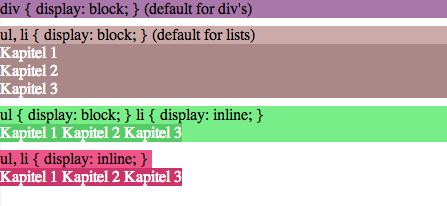
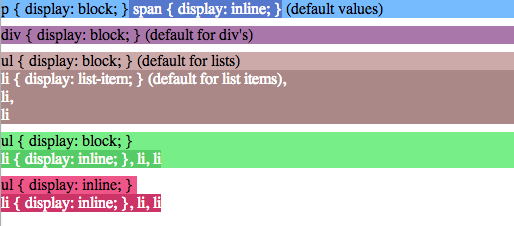
Completed slides with examples and illustrations.

diff --git a/html-css-course/slides.html b/html-css-course/slides.html
@@ -38,6 +38,8 @@
         <div class="slides">
             <section>
                 <h1>HTML and CSS</h1>
+                <p><a href="https://github.com/jayway/team-web-course" alt="">Kursmaterial på Github</a></p>
+                <p>Labbar - antingen lokalt eller på <a href="http://jsfiddle.net" alt="">jsfiddle.net</a></p>
             </section>
             
             <section>
@@ -67,6 +69,7 @@
                     <li>spans</li>
                     <li>images</li>
                     <li>links</li>
+                    <li>forms</li>
                 </ul>
             </section>
             
@@ -155,6 +158,22 @@ Just some free flying text separated by some line breaks</code></pre>
                 <p>And here are two ways of linking to the anchor.</p>
                 <pre><code>&lt;a href=&quot;#detailed-info&quot;&gt;Click to read more&lt;/a&gt;</code></pre>
                 <pre><code>&lt;a href=&quot;http://www.jayway.com/page-with-anchors.html#detailed-info&quot;&gt;Click to read more on jayway.com&lt;/a&gt;</code></pre>
+            </section>
+            
+            <section>
+              <h1>Forms</h1>
+              <p>Forms are used in HTML to group and capture user input and possibly submitting this data to some resource / destination for processing.</p>
+              <div class="side-by-side"><pre><code>&lt;form&gt;...
+&lt;label for=&quot;pwd&quot;&gt;Password:&lt;/label&gt;
+&lt;input type=&quot;password&quot; id=&quot;pwd&quot;&gt;
+&lt;label for=&quot;sex&quot;&gt;Sex:&lt;/label&gt;
+&lt;select&gt;
+&lt;option&gt;Male&lt;/option&gt;
+&lt;option&gt;Female&lt;/option&gt;
+&lt;/select&gt;
+&lt;input type=&quot;submit&quot;&gt;
+&lt;/form&gt;</code></pre></div>
+              <div class="side-by-side"><img src="resources/html-form.png"></div>
             </section>
             
             <section>
@@ -538,10 +557,10 @@ Your browser does not support the video tag.
             </section>
             
             <section>
-                <h1>Basic Styling</h1>
+                <h1>Styling</h1>
                 <p>Selectors define the rule for what element(s) in your HTML document you want to target for styling.</p>
                 <p>There are different kinds of selectors. You can select by:</p> 
-                <p>id, type, class, universal, descendant, child, adjecent sibling, pseudo elements and pseudo classes.</p>
+                <p><strong>id, type, class, universal, descendant, child, adjecent sibling, pseudo elements and pseudo classes.</strong></p>
                 <p>You can also group your selectors.</p>
             </section>
             
@@ -581,11 +600,18 @@ div &gt; p:first-child { text-indent: 0 }</code></pre>
             </section>
             
             <section>
-                <h1>Chained Selectors</h1>
+                <h1>visited Selectors</h1>
                 <p></p>
                 <pre><code>#header .menu-item { text-transform: uppercase; }</code></pre>
-                <p>This selector targets all menu items in the list below.</p>
+                <p>This selector targets all menu items in the header list below but not those in the footer list.</p>
                 <pre><code>&lt;div id=&quot;header&quot;&gt;
+    &lt;ul&gt;
+        &lt;li class=&quot;menu-item&quot;&gt;Item 1&lt;/li&gt;
+        &lt;li class=&quot;menu-item&quot;&gt;Item 2&lt;/li&gt;
+        &lt;li class=&quot;menu-item&quot;&gt;Item 3&lt;/li&gt;
+    &lt;/ul&gt;
+&lt;/div&gt;
+&lt;div id=&quot;footer&quot;&gt;
     &lt;ul&gt;
         &lt;li class=&quot;menu-item&quot;&gt;Item 1&lt;/li&gt;
         &lt;li class=&quot;menu-item&quot;&gt;Item 2&lt;/li&gt;
@@ -598,8 +624,10 @@ div &gt; p:first-child { text-indent: 0 }</code></pre>
                 <h1>Stacked Selectors</h1>
                 <p></p>
                 <pre><code>h1#title { text-decoration: underline; }</code></pre>
-                <p>This selector targets all &lt;h1&gt; elements with an id attribute value set to 'title'.</p>
-                <pre><code>&lt;h1 id=&quot;title&quot;&gt;This is the title header!&lt;/h1&gt;</code></pre>
+                <p>This selector targets the &lt;h1&gt; element with an id attribute value set to 'title'.</p>
+                <pre><code>&lt;h1 id=&quot;title&quot;&gt;This is the title header!&lt;/h1&gt;
+...[and within another page]...
+&lt;h1&gt;This &lt;span id=&quot;title&quot;&gt;title text.&lt;/span&gt; remains unstyled.&lt;/h1&gt;</code></pre>
             </section>
             
             <section>
@@ -611,8 +639,16 @@ div &gt; p:first-child { text-indent: 0 }</code></pre>
             <section>
                 <h1>The Universal Selector</h1>
                 <p>The universal selector, written as an asterisk (*), matches the name of any element type.</p>
-                <pre><code>.warning * { background-color: yellow; }</code></pre>
-                <p>The above example matches any element inside another element with the class “warning”.</p>
+                <pre><code>.warning * { 
+  border: 1px solid yellow; 
+  background-color: #eecc00; 
+}</code></pre>
+                <p>The above example matches any element inside an element with the class “warning”.</p>
+                <div class="side-by-side"><pre><code>&lt;div class=&quot;warning&quot;&gt;
+  &lt;p&gt;Hey, watch out!&lt;/p&gt;
+  &lt;div&gt;Outside paragraph.&lt;p&gt;Another story...&lt;/p&gt;&lt;/div&gt;
+&lt;/div&gt;</code></pre></div>
+<div class="side-by-side"><img src="resources/universal-selector.png" alt=""></div>
             </section>
             
             <section>
@@ -625,12 +661,12 @@ div &gt; p:first-child { text-indent: 0 }</code></pre>
             <section>
                 <h1>Basic Layout</h1>
                 <p>Layouting in CSS is about distributing sections of content in different ways on the page.</p>
-                <p>This is usually done by using &lt;div&gt;:s. You can achieve a lot by setting width, margins, floating them and using different positionings.</p>
+                <p>This is usually done by using &lt;div&gt;:s. You can achieve a lot by setting <strong>width, margins, floating, using different positionings and display styles.</strong></p>
             </section>
             
             <section>
               <h1>Inline vs block display</h1>
-              <p>For so called <strong>phrase content</strong> (what makes up a paragraph) the default display type is <strong>'inline'</strong>. For <strong>flow content</strong> it is <strong>'block'</strong>. The difference is that block displayal automatically (by default) has a width of 100%, that is, it stretches horizontally within its' container.</p>
+              <p>For so called <strong>phrase content</strong> (what makes up a paragraph) the default display type is <strong>'inline'</strong>. For <strong>flow content</strong> it is <strong>'block'</strong>. The difference is that block displayal (by default) has a width of 100%, that is, it automatically stretches horizontally within its' container.</p>
               <div><img src="resources/inline-vs-block.png"></div>
             </section>
             
@@ -765,6 +801,16 @@ div &gt; p:first-child { text-indent: 0 }</code></pre>
             </section>
             
             <section>
+              <h1>The Cascade - Inheritance</h1>
+              <p>Some properties are automatically inherited to an element from its' parent. Example of these are:</p>
+              <p><strong>font-family, font-size, color, background-color.</strong></p>
+              <p>Though, if you want to manually inherit, for example, a parent elements' border, this is how to do it:</p>
+              <div class="side-by-side"><pre><code>.parent { border: 5px solid #666; padding: 10px; }
+.child { border: inherit; }</code></pre></div>
+<div class="side-by-side"><img src="resources/inherit-border.png" /></div>
+            </section>
+            
+            <section>
                 <h1>The Cascade - Specificity</h1>
                 <p>Specificity is a mechanism within the CSS cascade that aids conflict resolution. In order of importance:</p>
                 <ol>
@@ -777,7 +823,7 @@ div &gt; p:first-child { text-indent: 0 }</code></pre>
             
             <section>
                 <h1>Specificity Example</h1>
-                <pre><code>&lt;p style=&quot;color:red;&quot;&gt;Red Text&lt;/p&gt;</code></pre>
+                <pre><code>&lt;p class="message" style=&quot;color:red;&quot;&gt;Red Text&lt;/p&gt;</code></pre>
 <table border="1" style="font-size: 0.5em;">
     <caption>In order of importance, from left to right:</caption>
     <thead>
@@ -807,13 +853,13 @@ div &gt; p:first-child { text-indent: 0 }</code></pre>
             <td>3</td>
         </tr>
         <tr style="background-color: white;">
-            <td>* body#home>div#warning p.message {
+            <td>* body#home>div#warning .message {
   color: red;
 }</td>
             <td>0</td>
             <td>2</td>
             <td>1</td>
-            <td>3</td>
+            <td>2</td>
         </tr>
         <tr style="background-color: white;">
             <td>#home #warning p.message {
